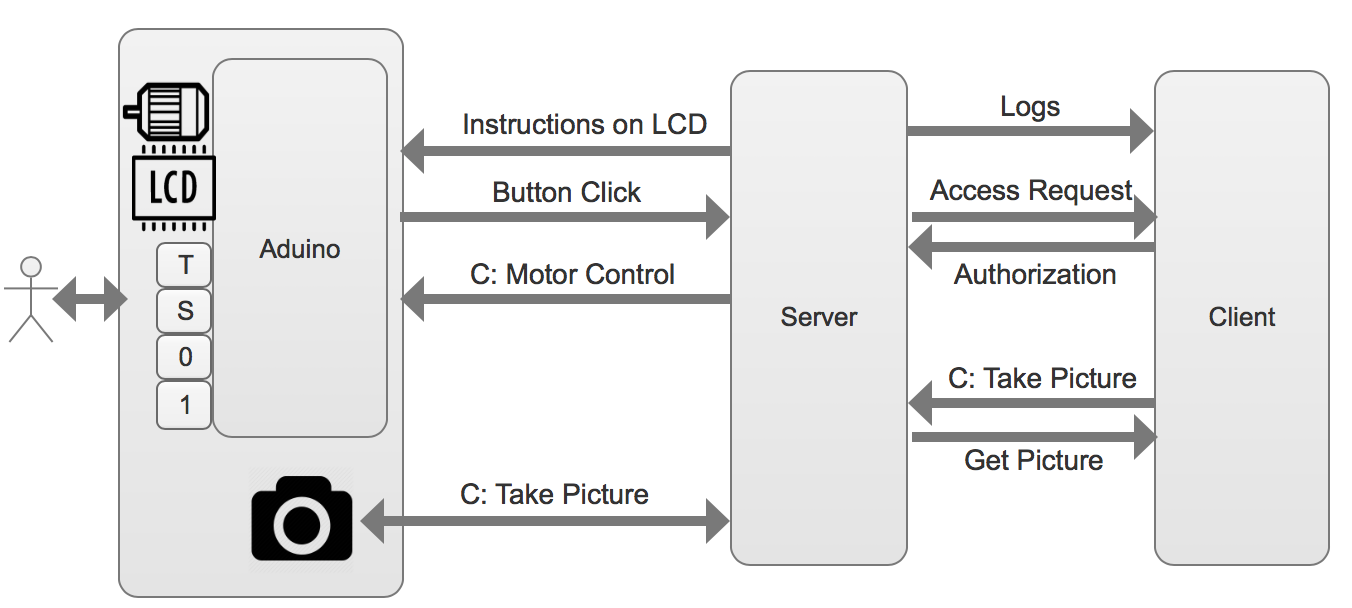
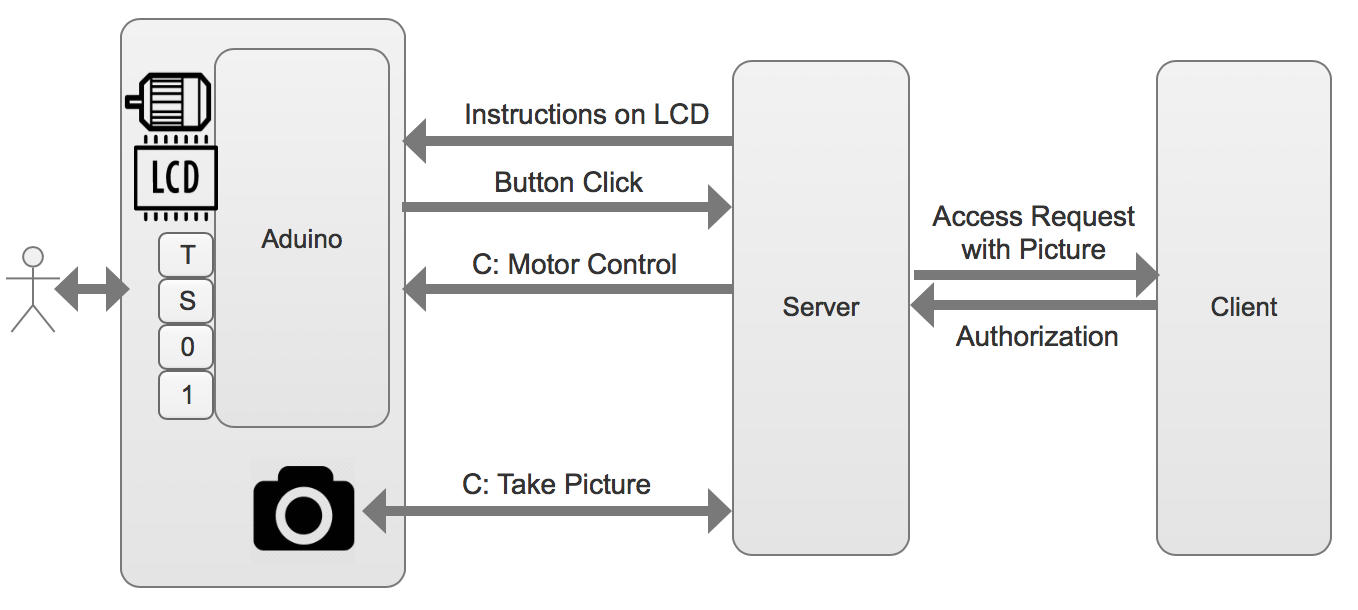
protocol

diff --git a/Protocol.md b/Protocol.md
@@ -33,6 +33,4 @@ Write what the server want on the LCD to the serial port. The Arduino code will 
 ## Motor Control
 
 #Client
-The client should be able to receive and display logs from the server. 
-After receiving access request from the server, the client can choose authorize or not. 
-The client can also command the server to take a picture using the camera. 
+After receiving access request from the server and the image in front of the camera, the client can choose authorize or not. 
